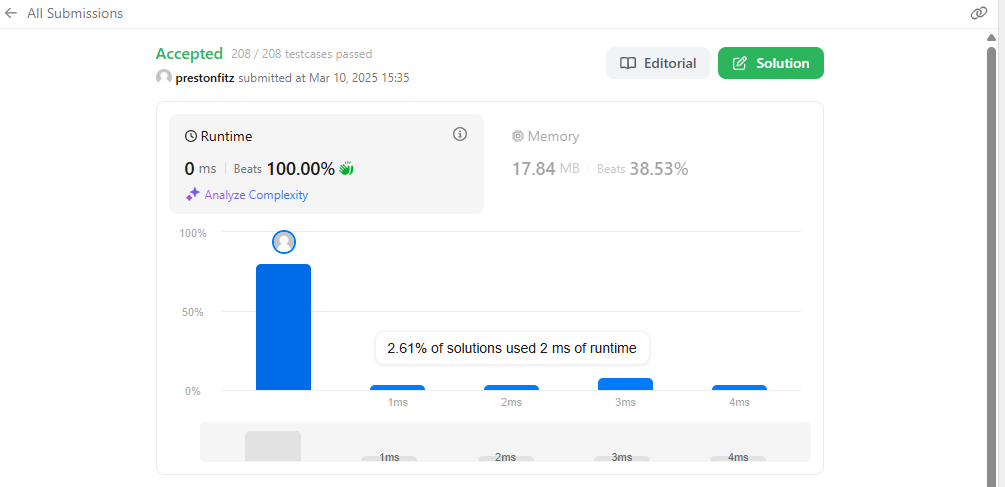
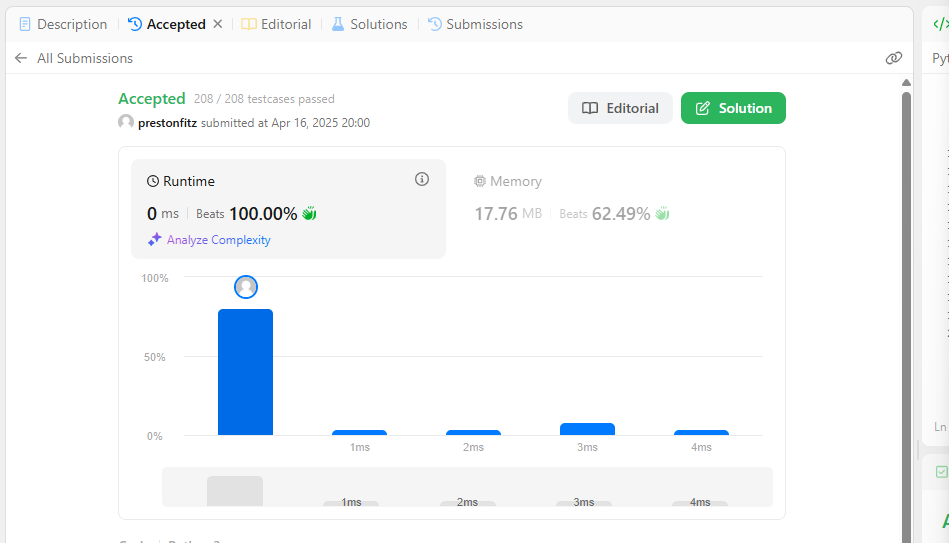
Add remaining descriptions

diff --git a/Solutions/0231/powerOfTwo.py b/Solutions/0231/powerOfTwo.py
@@ -1,8 +1,8 @@
 class Solution:
     def isPowerOfTwo(self, n: int) -> bool:
-        if n <= 0 or (type(n) == float and not int(n) == n):
-            return False
-        elif n <= 2 and n > 0:
-            return True
-        else:
-            return self.isPowerOfTwo(n/2)
+        while True:
+            if n <= 0 or (type(n) == float and not int(n) == n):
+                return False
+            elif n <= 2 and n > 0:
+                return True
+            n = n/2

diff --git a/Solutions/0021/mergeTwoSortedLists.py b/Solutions/0021/mergeTwoSortedLists.py
@@ -5,7 +5,7 @@
 #         self.next = next
 class Solution:
     def mergeTwoLists(self, list1: Optional[ListNode], list2: Optional[ListNode]) -> Optional[ListNode]:
-        while list1 != None and list2 != None:
+        if list1 != None and list2 != None:
             if list1.val > list2.val:
                 list2.next = self.mergeTwoLists(list2.next, list1)
                 return list2

diff --git a/Solutions/0027/removeElement.py b/Solutions/0027/removeElement.py
@@ -5,7 +5,7 @@ class Solution:
         while inc < len(nums):
             if nums[inc] == val:
                 nums[inc] = nums[-1]
-                del nums[inc]
+                del nums[-1]
             else:
                 inc += 1
 

diff --git a/readme.md b/readme.md
@@ -2,7 +2,17 @@
 
 Using hash maps to efficiently calculate the Two Sum problem: [0001](Solutions/0001)
 
+Bouncing my way through a zigzag: [0006](Solutions/0006)
+
+Reversing integers by rethinking what makes a number a number: [0007](Solutions/0007)
+
 Recursively forming Roman Numerals: [0012](Solutions/0012)
+
+Using recursion to merge a linked list: [0021](Solutions/0021)
+
+A heap of sorted lists: [0023](Solutions/0023)
+
+Removing target values by only deleting the last element: [0027](Solutions/0027)
 
 Keeping it simple when calculating exponents: [0050](Solutions/0050)
 
@@ -12,13 +22,10 @@ Using dictionaries to detected loops in linked lists: [0142](Solutions/0142)
 
 Reversing a linked list: [0206](Solutions/0206)
 
+Winding down powers of two: [0231](Solutions/0231)
+
+Slowly but steadily detecting palindromes in linked lists: [0234](Solutions/0234)
+
 Reducing strings to their first unique character: [0387](Solutions/0387)
 
-[0006](Solutions/0006)
-[0007](Solutions/0007)
-[0023](Solutions/0023)
-[2161](Solutions/2161)
-[0234](Solutions/0234)
-[0231](Solutions/0231)
-[0021](Solutions/0021)
-[0027](Solutions/0027)
+A relative and quick way to partition an array: [2161](Solutions/2161)

diff --git a/Solutions/2161/readme.md b/Solutions/2161/readme.md
@@ -1,1 +1,3 @@
 ![results](image.png)
+
+The goal for this problem is to not have to touch each element more than once. Anything beyond that is redundant. To do this, I broke each value into one of three arrays based on if it was smaller than, equal to, or greater than the pivot number. This has the bonus of also ensuring that we maintain the relative order of the values as they come in. The requirement to maintain the relative order of the values actually works in our favor in this case. Because the order must be preserved, it means that it behooves us to append the values onto the end of the arrays. This is more efficient anyway, because appending an element is a O(1) operation. While that operation is O(1), each element in the array still must be compared, so this still remains an O(N) operation.

diff --git a/Solutions/0007/readme.md b/Solutions/0007/readme.md
@@ -1,1 +1,3 @@
 ![results](image.png)
+
+For humans, reversing an integer is easy. For computers, it can be a bit trickier. How do we get the computer to think more like a human? Part of the solution can be to reframe how we think of numbers. When I think of a number, I think of how I read it. I read it like a word, or in other words, I think of it like a string. Well, maybe treating it like a string can help. To a computer, a string is an array of characters. One of the built in array functions that JavaScript has a function to reverse arrays. So we can take advantage of this to reverse strings. By jumping from an integer to a string to an array (which is what a string really is), then we can reverse the number relatively easily.

diff --git a/Solutions/0006/readme.md b/Solutions/0006/readme.md
@@ -1,1 +1,3 @@
 ![results](image.png)
+
+This was a fun problem to visualize and may be one of the more fun problems that I did. To visualize this, I imagined a bouncing ball. It starts by going down, it hits a point, goes up, hits a point (or "hits" a point if you have no ceiling), and then goes back down. So, I did the same thing with the row numbers. I had an index that started at a point (1), went down (or in our case, actually up. Keep up with the visual metaphor😊) until it hit the row number. I then reversed the direction for the index. I kept up this pattern until I ended the string. I stored the values in a dictionary, though this could have been done with arrays as well. Either works quite efficiently.

diff --git a/Solutions/0023/readme.md b/Solutions/0023/readme.md
@@ -1,1 +1,3 @@
 ![results](image.png)
+
+Heaps are cool because they sort themselves so that either the largest or smallest value is always on top (depends on the type heap that you set up). They are also nice because it does not matter what values are underneath; it will always sort itself. We take advantage of that here so that we do not need to spit the entirety of each linked list out. Instead, whenever we add a value to our result list, we simply remove it from the heap and then add it's next value to the heap. The heap sorts itself and then is ready to add the next value. Thus, we are able to sort all k lists without ever having to be able to see all k nodes at once.

diff --git a/Solutions/0231/readme.md b/Solutions/0231/readme.md
@@ -1,1 +1,3 @@
 ![results](image.png)
+
+How can you tell if something is a power of two? You just do the reverse of raising two to that power: you divide. That is what happens here. I just keep dividing the number until we reach 2 or 1. This originally made the list because it was an interesting use of recursion. I then realized that there was no reason that this should be recursive. That was unneeded complexity, so I rewrote it with a simple while loop. Because this naturally decreases itself to 0, it eventually breaks itself out of the loop. Much simplier and easier to understand. The same principles apply to [0326](../0326) and [0342](../0342).

diff --git a/Solutions/0027/readme.md b/Solutions/0027/readme.md
@@ -1,1 +1,3 @@
 ![results](image.png)
+
+For this problem, I wanted to removed target elements without deleting them in place, because if I just removed them then we would need to shift all of the other elements over, which can get burdensome on a machine. I found a solution by realizing that the order of the values returned does not matter. Because of that, I can reliably replace the value with the last element of the array. This is a O(1) operation. I then just delete the last element (once again, an O(1) operation) to ensure that I do not deal with duplicates.

diff --git a/Solutions/0021/readme.md b/Solutions/0021/readme.md
@@ -1,1 +1,3 @@
 ![results](image.png)
+
+Sorting is a dangerous operation, as it can easily evolve into a O(N^2) operation. The goal is to sort in anything less than that. Fortunately, most of the work has already been done for us, we just need to combine the lists efficiently.To do this, I iterated over the lists recursively. I assigned the next largest value to be the next value until I reached the end of the list. When I reached the end of the list, I returned nonempty list. This will only touch each node once, making it a much more appealing O(N + M).

diff --git a/Solutions/0234/readme.md b/Solutions/0234/readme.md
@@ -1,1 +1,5 @@
 ![results](image.png)
+
+This problem was solved using an approach similar to the tortoise and the hare. I iterated over the list essentially twice at the same time, with one pointer moving at twice the speed of the other. This allowed me to find the mid point. I then reversed the second half and compared it to the first.
+
+To see a more detailed explaination, please check out my [tutorial](https://github.com/prestonfitz/palindrome-linked-list-tutorial) on this problem.
